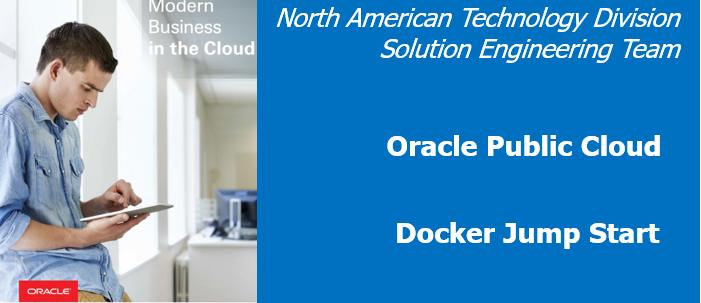
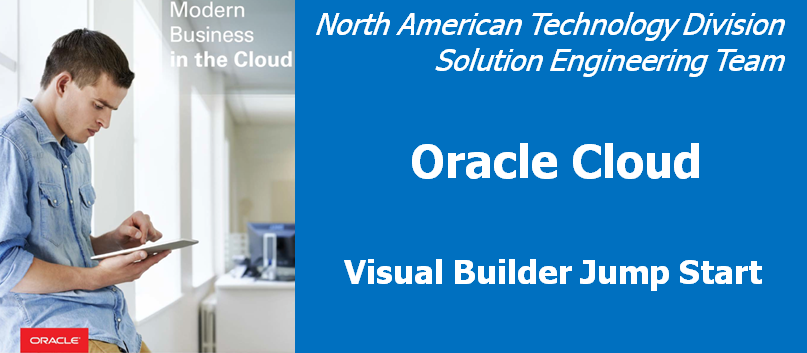
jumpstart updates

diff --git a/workshops/vbcs/jumpstart/README.md b/workshops/vbcs/jumpstart/README.md
@@ -3,50 +3,16 @@
 
 ![](images/000JumpStart/TitleJS.png) 
 
-Updated: June 23, 2018
+Updated: October 18, 2018
 
 ## Introduction
-_Time to Complete: 40 minutes_
+_Time to Complete: 30 minutes_
 
-In this lab, you get an introduction to Docker, Container Architectures and Container Functions. In an Oracle Cloud environment, you’ll provision a Docker multi-container application running in the Compute Cloud Service on a VM Standard footprint. You'll look at various application components deployed in three Docker containers. You'll connect into your account using VNC Viewer, perform some docker commands to see various aspects of the setup, access the AlphaOffice application and edit the UI Docker container and make small changes to the application.
+Visual Builder (VB) is a cloud service that enables you to rapidly create and host web and mobile applications with minimal coding required. Users can visually create an application using a collection of built-in user-interface controls, and bind the UI to existing REST services or custom business objects they create from within the tool. Users publish their application with a click of a button to provide access to end-users. In addition role based security can be defined for the application to control access to pages and data.
 
-In this lab, the "database" product catalog is bundled with the REST service and the product listing is provided via JSON. In a follow-up lab, you use an Oracle or MYSQL database as the datasource.
+## Lab Overview
 
-### Exploring the AlphaOffice Application
-
-The AlphaOffice application offers a list of products from a catalog which includes four Docker containers. Refer to the `Product Catalog Application` section of the diagram below. 
-
-The AlphaOffice UI container retrieves catalog information from a REST service (written in Node.js) running in a separate container. It also uses sample Twitter feed data from a REST service (written in Java), also running in its own container, and combines the data into a unified front end.
-
-![](images/000JumpStart/JS2.PNG)
-
-The AlphaOffice UI is shown below.
-
-![](images/000JumpStart/JS0-4.PNG)
-
-## Technology Overview
-
-### What is Docker? What is a container?
-
-- Docker is the company and containerization technology.
-- [Docker Documentation](https://docs.docker.com)
-- A container is a runtime instance of a docker image: [Container Documentation](https://docs.docker.com/glossary/?term=container)
-
-Containers have been around for many years. Docker created a technology that allows developers to create and package containers into applications that are portable and lightweight.
-
-### VM vs Container
-
-![](images/000JumpStart/JS1.png)
-
-While containers may sound like a virtual machine (VM), the two are distinct technologies. With VMs each virtual machine includes the application, the necessary binaries and libraries and the entire guest operating system.
-
-Whereas, Containers include the application, all of its dependencies, but share the kernel with other containers and are not tied to any specific infrastructure, other than having the Docker engine installed on it’s host – allowing containers to run on almost any computer, infrastructure and cloud.
-
-### Prerequisite
-
-Once the infrastructure is provisioned you can access your enironment using `VNC Viewer`. Please download and install from: [VNC Viewer](https://www.realvnc.com/en/connect/download/viewer/)
-
-## Instructions
+This Lab will have you log into and Oracle Virtual Builder Cloud service and build a simple web application that uses Business Objects and Charts. A business object is a resource, such as an invoice or purchase order, similar to a database table; it has fields that hold the data for your application. Like a database table, a business object provides the structure for data used with business processes. Business objects are stored in a database.  
 
 ### Access Your Environment
 
